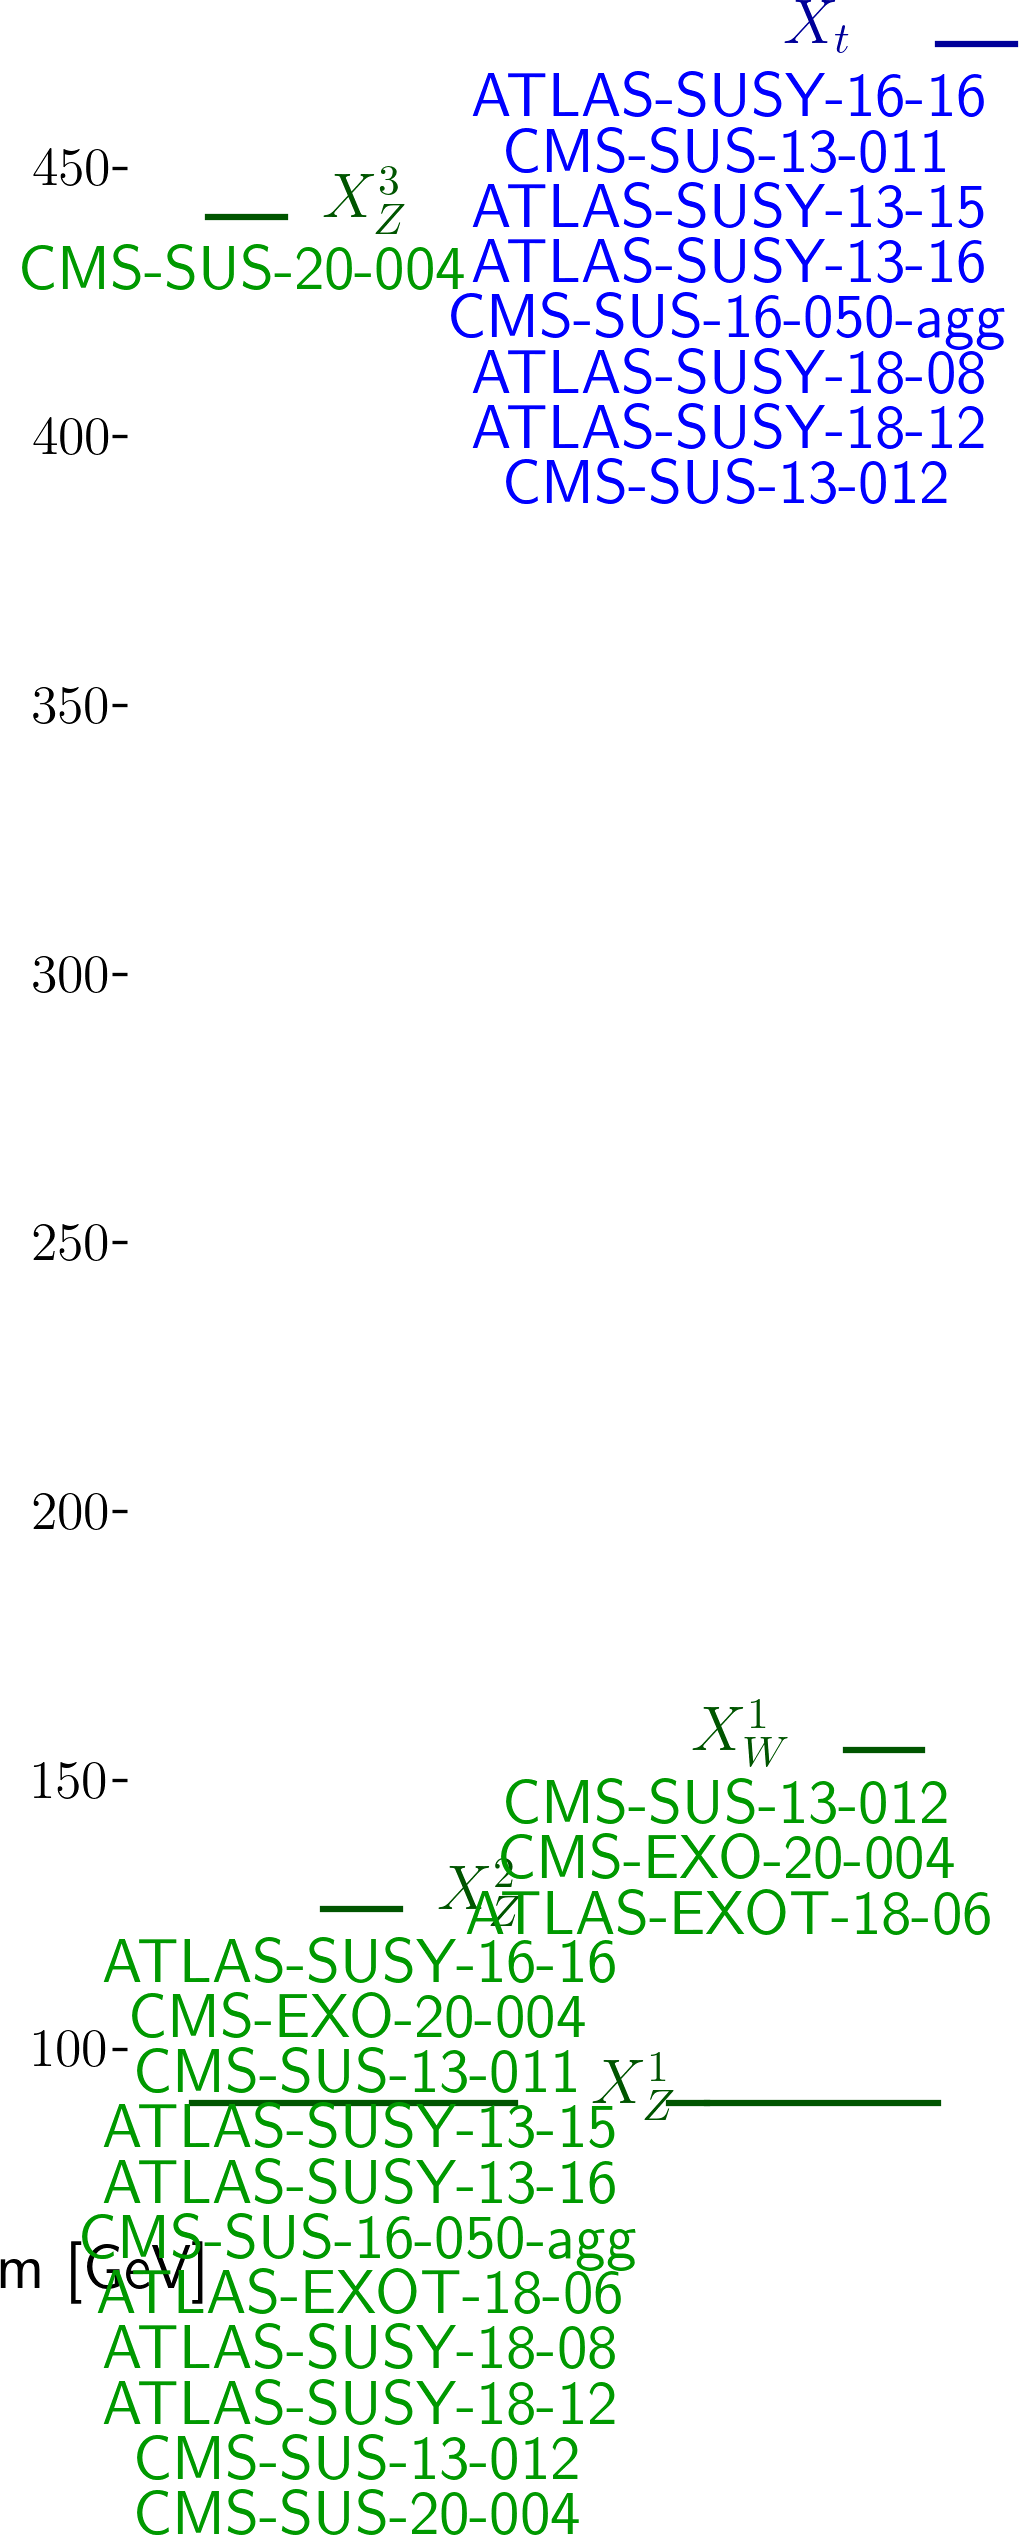
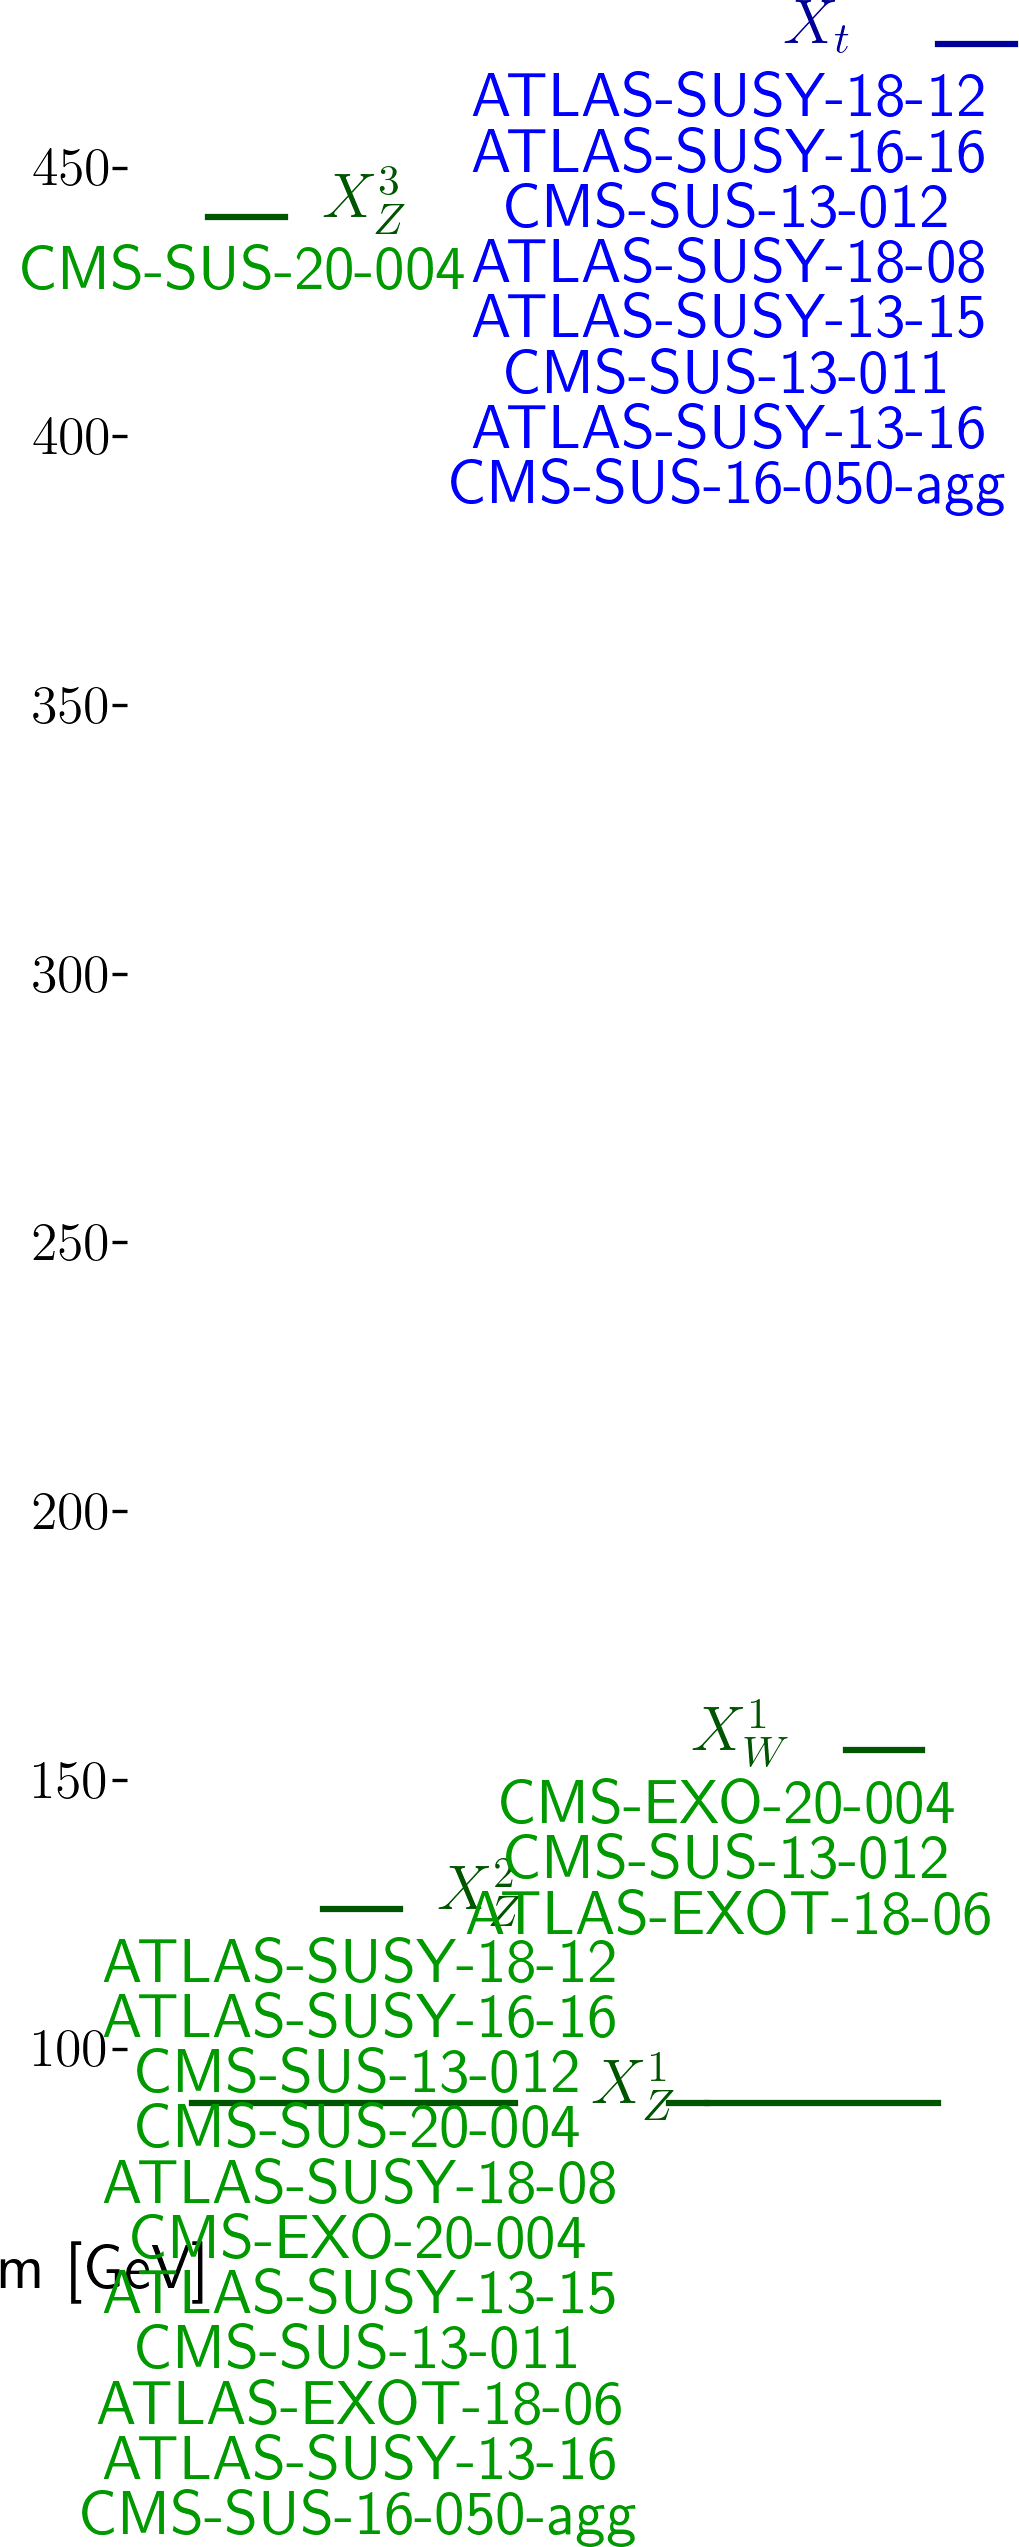
automated update by plotHiscore.py to rundir3_310:     K=31.328 TL=39.10 walkerid=uphi

diff --git a/protomodels/rundir3_310/rawnumbers.html b/protomodels/rundir3_310/rawnumbers.html
@@ -2,11 +2,11 @@
 <tr><th>Analysis Name</th><th>Type</th><th>Dataset</th><th>Topos</th><th>Observed</th><th>Expected</th><th>Approx &sigma;</th><th>Particles</th>
 </tr>
 <tr><td><a href=http://cms-results.web.cern.ch/cms-results/public-results/publications/EXO-20-004/>CMS-EXO-20-004</a></td><td>comb</td> <td>-</td><td>TChiISR, TChiZISRqq</td><td> 2e+02 fb </td><td> 1e+02 fb</td><td style="text-align:right">4.6 &sigma;</td><td style="text-align:right">X<sup>1</sup><sub>W</sub>, X<sup>1</sup><sub>Z</sub>, X<sup>2</sup><sub>Z</sub></td></tr>
-<tr><td><a href=https://atlas.web.cern.ch/Atlas/GROUPS/PHYSICS/PAPERS/EXOT-2018-06/>ATLAS-EXOT-2018-06</a></td><td>em</td> <td>EM10</td><td>TChiISR, TChiZISRqq</td><td>413</td><td>359.00 +/- 10.00</td><td style="text-align:right">2.5 &sigma;</td><td style="text-align:right">X<sup>1</sup><sub>W</sub>, X<sup>1</sup><sub>Z</sub>, X<sup>2</sup><sub>Z</sub></td></tr>
+<tr><td><a href=https://atlas.web.cern.ch/Atlas/GROUPS/PHYSICS/PAPERS/EXOT-2018-06/>ATLAS-EXOT-2018-06</a></td><td>em</td> <td>EM10</td><td>TChiISR, TChiZISRqq</td><td>413</td><td>359.00 +/- 10.00</td><td style="text-align:right">2.4 &sigma;</td><td style="text-align:right">X<sup>1</sup><sub>W</sub>, X<sup>1</sup><sub>Z</sub>, X<sup>2</sup><sub>Z</sub></td></tr>
 <tr><td><a href=http://cms-results.web.cern.ch/cms-results/public-results/publications/SUS-20-004/>CMS-SUS-20-004</a></td><td>comb</td> <td>-</td><td>TChiHH</td><td> 0.3 fb </td><td> 0.2 fb</td><td style="text-align:right">2.2 &sigma;</td><td style="text-align:right">X<sup>3</sup><sub>Z</sub>, X<sup>1</sup><sub>Z</sub>, X<sup>2</sup><sub>Z</sub></td></tr>
-<tr><td><a href=https://atlas.web.cern.ch/Atlas/GROUPS/PHYSICS/PAPERS/SUSY-2018-12/>ATLAS-SUSY-2018-12</a></td><td>em</td> <td>SRBTT</td><td>T2tt</td><td>67</td><td>46.00 +/- 7.00</td><td style="text-align:right">2.1 &sigma;</td><td style="text-align:right">X<sub>t</sub>, X<sup>2</sup><sub>Z</sub></td></tr>
-<tr><td><a href=https://atlas.web.cern.ch/Atlas/GROUPS/PHYSICS/PAPERS/SUSY-2018-08/>ATLAS-SUSY-2018-08</a></td><td>em</td> <td>SRSF140</td><td>T2tt</td><td>9</td><td>5.10 +/- 0.90</td><td style="text-align:right">1.5 &sigma;</td><td style="text-align:right">X<sub>t</sub>, X<sup>2</sup><sub>Z</sub></td></tr>
+<tr><td><a href=https://atlas.web.cern.ch/Atlas/GROUPS/PHYSICS/PAPERS/SUSY-2018-12/>ATLAS-SUSY-2018-12</a></td><td>em</td> <td>SRBTT</td><td>T2tt</td><td>67</td><td>46.00 +/- 7.00</td><td style="text-align:right">2.0 &sigma;</td><td style="text-align:right">X<sub>t</sub>, X<sup>2</sup><sub>Z</sub></td></tr>
 <tr><td><a href=https://atlas.web.cern.ch/Atlas/GROUPS/PHYSICS/PAPERS/SUSY-2016-16/>ATLAS-SUSY-2016-16</a></td><td>em</td> <td>tN_med</td><td>T2tt</td><td>50</td><td>36.30 +/- 6.60</td><td style="text-align:right">1.5 &sigma;</td><td style="text-align:right">X<sub>t</sub>, X<sup>2</sup><sub>Z</sub></td></tr>
+<tr><td><a href=https://atlas.web.cern.ch/Atlas/GROUPS/PHYSICS/PAPERS/SUSY-2018-08/>ATLAS-SUSY-2018-08</a></td><td>em</td> <td>SRSF140</td><td>T2tt</td><td>9</td><td>5.10 +/- 0.90</td><td style="text-align:right">1.5 &sigma;</td><td style="text-align:right">X<sub>t</sub>, X<sup>2</sup><sub>Z</sub></td></tr>
 <tr><td><a href=https://atlas.web.cern.ch/Atlas/GROUPS/PHYSICS/PAPERS/SUSY-2013-16/>ATLAS-SUSY-2013-16</a></td><td>em</td> <td>SRA4</td><td>T2tt</td><td>4</td><td>2.40 +/- 0.70</td><td style="text-align:right">0.9 &sigma;</td><td style="text-align:right">X<sub>t</sub>, X<sup>2</sup><sub>Z</sub></td></tr>
 <tr><td><a href=https://atlas.web.cern.ch/Atlas/GROUPS/PHYSICS/PAPERS/SUSY-2013-15/>ATLAS-SUSY-2013-15</a></td><td>em</td> <td>tNboost</td><td>T2tt</td><td>5</td><td>3.30 +/- 0.70</td><td style="text-align:right">0.9 &sigma;</td><td style="text-align:right">X<sub>t</sub>, X<sup>2</sup><sub>Z</sub></td></tr>
 <tr><td><a href=https://twiki.cern.ch/twiki/bin/view/CMSPublic/PhysicsResultsSUS13012>CMS-SUS-13-012</a></td><td>em</td> <td>6NJet8_800HT100 ...</td><td>T2tt, T6bbWWoff</td><td>35</td><td>28.60 +/- 6.90</td><td style="text-align:right">0.8 &sigma;</td><td style="text-align:right">X<sup>1</sup><sub>W</sub>, X<sup>1</sup><sub>Z</sub>, X<sub>t</sub>, X<sup>2</sup><sub>Z</sub></td></tr>
@@ -18,15 +18,15 @@
 <tr><td><a href=https://atlas.web.cern.ch/Atlas/GROUPS/PHYSICS/PAPERS/SUSY-2013-04/>ATLAS-SUSY-2013-04</a></td><td>em</td> <td>GtGrid_SR_10ij5 ...</td><td>T2tt</td><td>3</td><td>1.37 +/- 0.35</td><td style="text-align:right">1.2 &sigma;</td><td style="text-align:right">X<sub>t</sub>, X<sup>2</sup><sub>Z</sub></td></tr>
 <tr><td><a href=https://atlas.web.cern.ch/Atlas/GROUPS/PHYSICS/PAPERS/SUSY-2013-04/>ATLAS-SUSY-2013-04</a></td><td>em</td> <td>GtGrid_SR_8ij80 ...</td><td>T2tt</td><td>2</td><td>0.90 +/- 0.60</td><td style="text-align:right">0.9 &sigma;</td><td style="text-align:right">X<sub>t</sub>, X<sup>2</sup><sub>Z</sub></td></tr>
 <tr><td><a href=https://atlas.web.cern.ch/Atlas/GROUPS/PHYSICS/PAPERS/SUSY-2013-04/>ATLAS-SUSY-2013-04</a></td><td>em</td> <td>GtGrid_SR_9ej50 ...</td><td>T2tt</td><td>5</td><td>3.30 +/- 0.70</td><td style="text-align:right">0.9 &sigma;</td><td style="text-align:right">X<sub>t</sub>, X<sup>2</sup><sub>Z</sub></td></tr>
-<tr><td><a href=https://twiki.cern.ch/twiki/bin/view/CMSPublic/PhysicsResultsSUS13015>CMS-PAS-SUS-13-015</a></td><td>em</td> <td>pTmiss350_Nb2</td><td>T2tt</td><td>15</td><td>8.60 +/- 7.10</td><td style="text-align:right">0.8 &sigma;</td><td style="text-align:right">X<sub>t</sub>, X<sup>2</sup><sub>Z</sub></td></tr>
+<tr><td><a href=https://twiki.cern.ch/twiki/bin/view/CMSPublic/PhysicsResultsSUS13015>CMS-PAS-SUS-13-015</a></td><td>em</td> <td>pTmiss350_Nb2</td><td>T2tt</td><td>15</td><td>8.60 +/- 7.10</td><td style="text-align:right">0.7 &sigma;</td><td style="text-align:right">X<sub>t</sub>, X<sup>2</sup><sub>Z</sub></td></tr>
 <tr><td><a href=https://atlas.web.cern.ch/Atlas/GROUPS/PHYSICS/PAPERS/SUSY-2013-04/>ATLAS-SUSY-2013-04</a></td><td>em</td> <td>GtGrid_SR_8ej50 ...</td><td>T2tt</td><td>40</td><td>35.00 +/- 4.00</td><td style="text-align:right">0.7 &sigma;</td><td style="text-align:right">X<sub>t</sub>, X<sup>2</sup><sub>Z</sub></td></tr>
 <tr><td><a href=https://atlas.web.cern.ch/Atlas/GROUPS/PHYSICS/PAPERS/SUSY-2013-04/>ATLAS-SUSY-2013-04</a></td><td>em</td> <td>GtGrid_SR_9ej50 ...</td><td>T2tt</td><td>8</td><td>6.10 +/- 1.70</td><td style="text-align:right">0.7 &sigma;</td><td style="text-align:right">X<sub>t</sub>, X<sup>2</sup><sub>Z</sub></td></tr>
 <tr><td><a href=http://cms-results.web.cern.ch/cms-results/public-results/publications/SUS-16-033/index.html>CMS-SUS-16-033</a></td><td>em</td> <td>SR6_Njet2_Nb2_H ...</td><td>T2tt</td><td>216</td><td>196.00 +/- 28.00</td><td style="text-align:right">0.6 &sigma;</td><td style="text-align:right">X<sub>t</sub>, X<sup>2</sup><sub>Z</sub></td></tr>
 <tr><td><a href=http://cms-results.web.cern.ch/cms-results/public-results/publications/SUS-16-033/index.html>CMS-SUS-16-033</a></td><td>em</td> <td>SR1_Njet2_Nb0_H ...</td><td>T2tt</td><td>7838</td><td>7584.00 +/- 433.00</td><td style="text-align:right">0.6 &sigma;</td><td style="text-align:right">X<sub>t</sub>, X<sup>2</sup><sub>Z</sub></td></tr>
 <tr><td><a href=http://cms-results.web.cern.ch/cms-results/public-results/publications/SUS-16-033/index.html>CMS-SUS-16-033</a></td><td>em</td> <td>SR12_Njet5_Nb1_ ...</td><td>T2tt</td><td>48</td><td>42.20 +/- 9.70</td><td style="text-align:right">0.5 &sigma;</td><td style="text-align:right">X<sub>t</sub>, X<sup>2</sup><sub>Z</sub></td></tr>
 <tr><td><a href=http://cms-results.web.cern.ch/cms-results/public-results/publications/SUS-16-033/index.html>CMS-SUS-16-033</a></td><td>em</td> <td>SR7_Njet3_Nb1_H ...</td><td>T2tt</td><td>123</td><td>113.00 +/- 18.00</td><td style="text-align:right">0.5 &sigma;</td><td style="text-align:right">X<sub>t</sub>, X<sup>2</sup><sub>Z</sub></td></tr>
-<tr><td><a href=https://twiki.cern.ch/twiki/bin/view/CMSPublic/PhysicsResultsSUS13015>CMS-PAS-SUS-13-015</a></td><td>em</td> <td>pTmiss350_Nb1</td><td>T2tt</td><td>45</td><td>40.90 +/- 9.60</td><td style="text-align:right">0.4 &sigma;</td><td style="text-align:right">X<sub>t</sub>, X<sup>2</sup><sub>Z</sub></td></tr>
 <tr><td><a href=http://cms-results.web.cern.ch/cms-results/public-results/publications/SUS-16-033/index.html>CMS-SUS-16-033</a></td><td>em</td> <td>SR9_NJet5_Nb2_H ...</td><td>T2tt</td><td>6</td><td>4.40 +/- 3.40</td><td style="text-align:right">0.4 &sigma;</td><td style="text-align:right">X<sub>t</sub>, X<sup>2</sup><sub>Z</sub></td></tr>
+<tr><td><a href=https://twiki.cern.ch/twiki/bin/view/CMSPublic/PhysicsResultsSUS13015>CMS-PAS-SUS-13-015</a></td><td>em</td> <td>pTmiss350_Nb1</td><td>T2tt</td><td>45</td><td>40.90 +/- 9.60</td><td style="text-align:right">0.4 &sigma;</td><td style="text-align:right">X<sub>t</sub>, X<sup>2</sup><sub>Z</sub></td></tr>
 <tr><td><a href=https://atlas.web.cern.ch/Atlas/GROUPS/PHYSICS/PAPERS/SUSY-2013-04/>ATLAS-SUSY-2013-04</a></td><td>em</td> <td>GtGrid_SR_8ej50 ...</td><td>T2tt</td><td>44</td><td>40.00 +/- 10.00</td><td style="text-align:right">0.4 &sigma;</td><td style="text-align:right">X<sub>t</sub>, X<sup>2</sup><sub>Z</sub></td></tr>
 <tr><td><a href=https://atlas.web.cern.ch/Atlas/GROUPS/PHYSICS/PAPERS/SUSY-2013-04/>ATLAS-SUSY-2013-04</a></td><td>em</td> <td>GtGrid_SR_7ej80 ...</td><td>T2tt</td><td>12</td><td>11.00 +/- 2.20</td><td style="text-align:right">0.3 &sigma;</td><td style="text-align:right">X<sub>t</sub>, X<sup>2</sup><sub>Z</sub></td></tr>
 <tr><td><a href=http://cms-results.web.cern.ch/cms-results/public-results/publications/SUS-16-033/index.html>CMS-SUS-16-033</a></td><td>em</td> <td>SR3_Njet5_Nb0_H ...</td><td>T2tt</td><td>819</td><td>806.00 +/- 57.00</td><td style="text-align:right">0.2 &sigma;</td><td style="text-align:right">X<sub>t</sub>, X<sup>2</sup><sub>Z</sub></td></tr>

diff --git a/protomodels/rundir3_310/index.html b/protomodels/rundir3_310/index.html
@@ -9,16 +9,16 @@
 <br><b>Critics:</b> passed both critics<br>
 <br><b>LLHD Critic:</b> CMS-EXO-20-004:combined, ATLAS-EXOT-2018-06:EM8, CMS-SUS-20-004:combined, ATLAS-SUSY-2018-12:SRBTT, ATLAS-SUSY-2016-16:tN_med, CMS-SUS-16-050-agg:combined, ATLAS-SUSY-2018-08:SRDF220:: <span style='color: darkgreen;'>robs=0.99, rexp=3.45</span><br>
 <br><b>32 predictions available. Highest r values are:</b><br><ul>
-<li><a href=https://atlas.web.cern.ch/Atlas/GROUPS/PHYSICS/PAPERS/EXOT-2018-06/>ATLAS-EXOT-2018-06</a>:EM8:TChiISR,TChiZISRqq r=1.58, r<sub>exp</sub>=1.71<br>
+<li><a href=https://atlas.web.cern.ch/Atlas/GROUPS/PHYSICS/PAPERS/EXOT-2018-06/>ATLAS-EXOT-2018-06</a>:EM8:TChiZISRqq,TChiISR r=1.58, r<sub>exp</sub>=1.71<br>
 <li><a href=http://cms-results.web.cern.ch/cms-results/public-results/publications/SUS-20-002/index.html>CMS-SUS-20-002</a>:ul:T2tt r=1.13, r<sub>exp</sub>=0.92<br>
 <li><a href=http://cms-results.web.cern.ch/cms-results/public-results/publications/SUS-19-010/index.html>CMS-SUS-19-010</a>:ul:T2tt r=0.77, r<sub>exp</sub>=0.65<br>
 <li><a href=http://cms-results.web.cern.ch/cms-results/public-results/publications/SUS-19-009/index.html>CMS-SUS-19-009</a>:ul:T2tt r=0.67, r<sub>exp</sub>=0.68<br>
 </ul>
-<td><img width=600px src=./texdoc.png?1760004742>
-<br><span style='font-size: smaller; color: darkred;'>Last updated: Thu Oct  9 12:12:22 2025</span>
+<td><img width=600px src=./texdoc.png?1760005760>
+<br><span style='font-size: smaller; color: darkred;'>Last updated: Thu Oct  9 12:29:20 2025</span>
 </table><table style="width:80%">
-<td width=45%><img height=580px src=./ruler.png?1760004742><td width=55%><img height=220px src=./decays.png?1760004742>
-<font size=-3><iframe type="text/html" height="350px" width="100%" frameborder="0" src="./rawnumbers.html?1760004742"></iframe></font>
+<td width=45%><img height=580px src=./ruler.png?1760005760><td width=55%><img height=220px src=./decays.png?1760005760>
+<font size=-3><iframe type="text/html" height="350px" width="100%" frameborder="0" src="./rawnumbers.html?1760005760"></iframe></font>
 </table>
 </body>
 </html>
